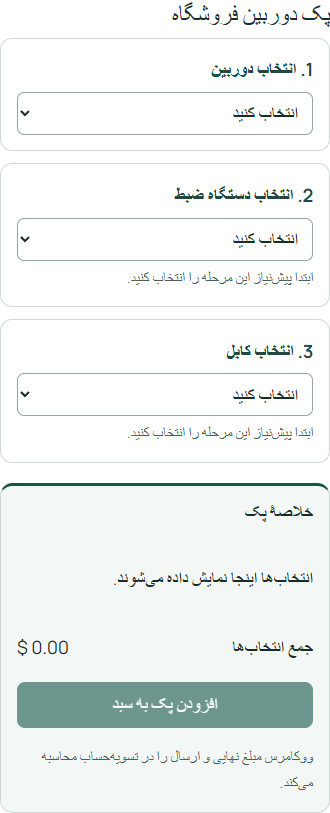
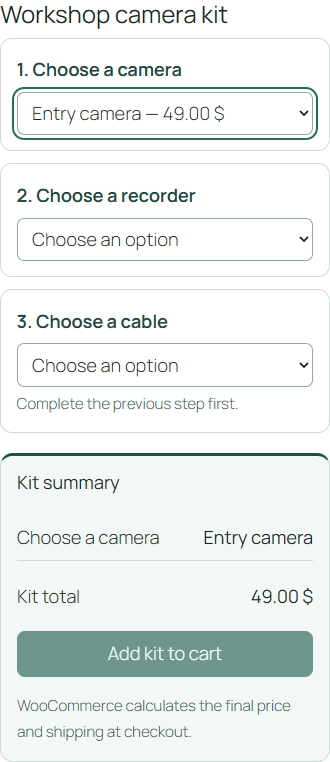
Use English screenshots and verify the portfolio evidence (#3)

diff --git a/README.md b/README.md
@@ -9,18 +9,18 @@ A failed kit item should leave the cart as it was, and a repeated request should
 ## Cart verification preview
 
 <p align="center">
-  <a href="docs/cart-verification.png"><img src="docs/cart-verification.png" width="900" alt="Two native WooCommerce cart lines and four passing Packchin test checks"></a>
+  <a href="docs/cart-verification.png"><img src="docs/cart-verification.png" width="900" alt="Two native WooCommerce cart lines and five passing Packchin test checks"></a>
   <br>
-  <em>Native WooCommerce cart snapshot and the four recorded fixture checks</em>
+  <em>Native WooCommerce cart snapshot and five recorded fixture checks</em>
 </p>
 
 <details>
-<summary>View the original mobile storefront</summary>
+<summary>View the mobile kit builder</summary>
 
 <p align="center">
-  <a href="docs/original-mobile-demo.png"><img src="docs/original-mobile-demo.png" width="360" alt="Packchin's original Persian mobile storefront"></a>
+  <a href="docs/original-mobile-demo.png"><img src="docs/original-mobile-demo.png" width="360" alt="Packchin mobile kit builder after selecting a camera for the workshop kit"></a>
   <br>
-  <em>Original RTL storefront · mobile fixture</em>
+  <em>English test storefront at mobile width</em>
 </p>
 
 </details>
